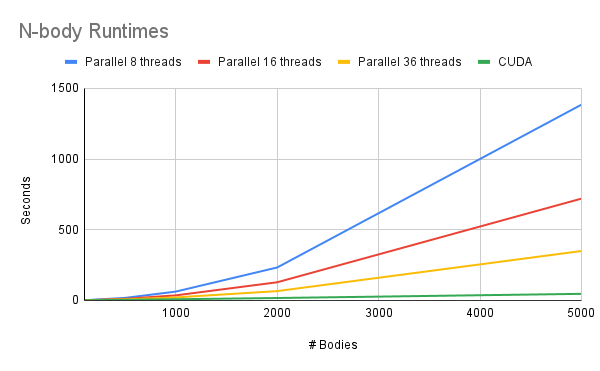
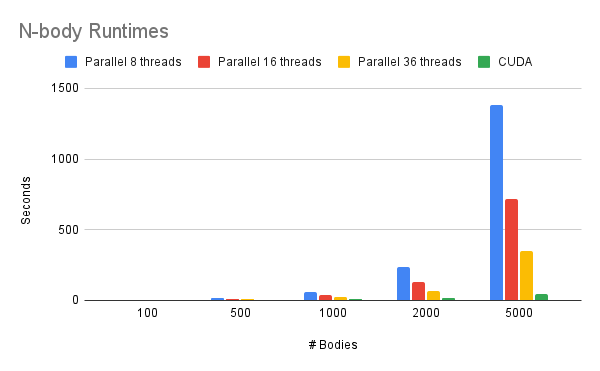
updates to images

diff --git a/README.md b/README.md
@@ -11,8 +11,8 @@ There are three folders, "Sequential", "Parallel_OpenMP", and "Parallel_CUDA" th
 
 Comparison of running the program using OpenMP with different numbers of CPU threads versus running on a GTX-1080ti GPU using CUDA.
 
-![n-body graph](visualization/N-body_Runtimes_2.png)
+![n-body graph](visualization/N-body_Runtimes_1.png)
 
 The below chart includes the sequential runtimes as well.
 
-![n-body graph](visualization/N-body_Runtimes_3.png)
+![n-body graph](visualization/N-body_Runtimes_2.png)
